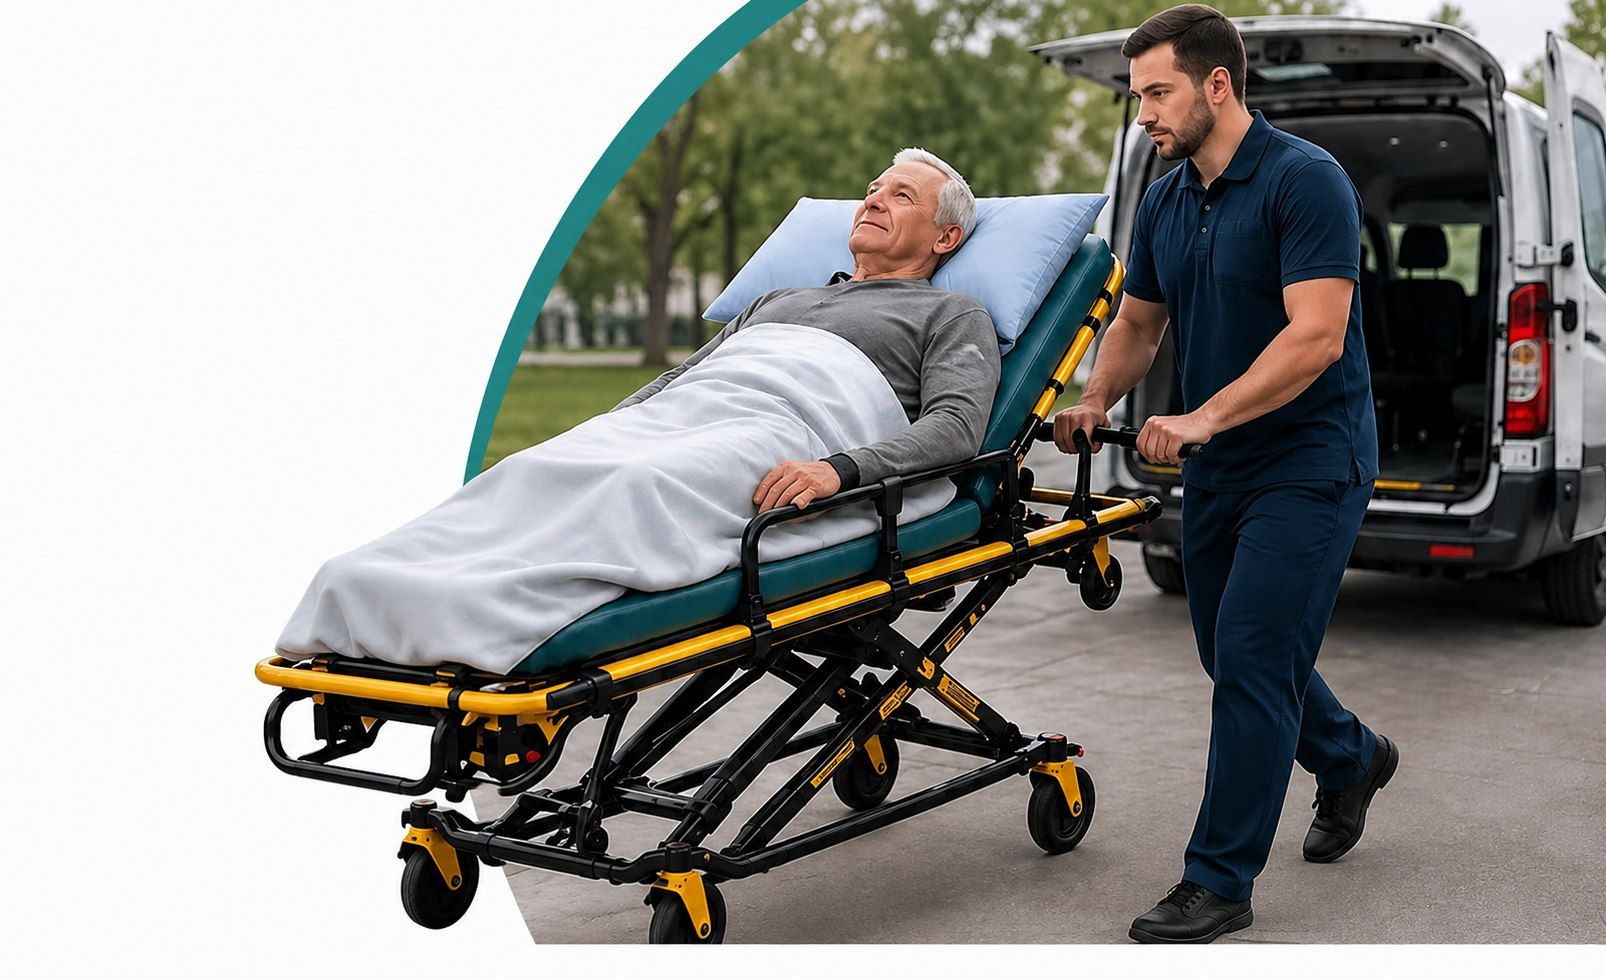
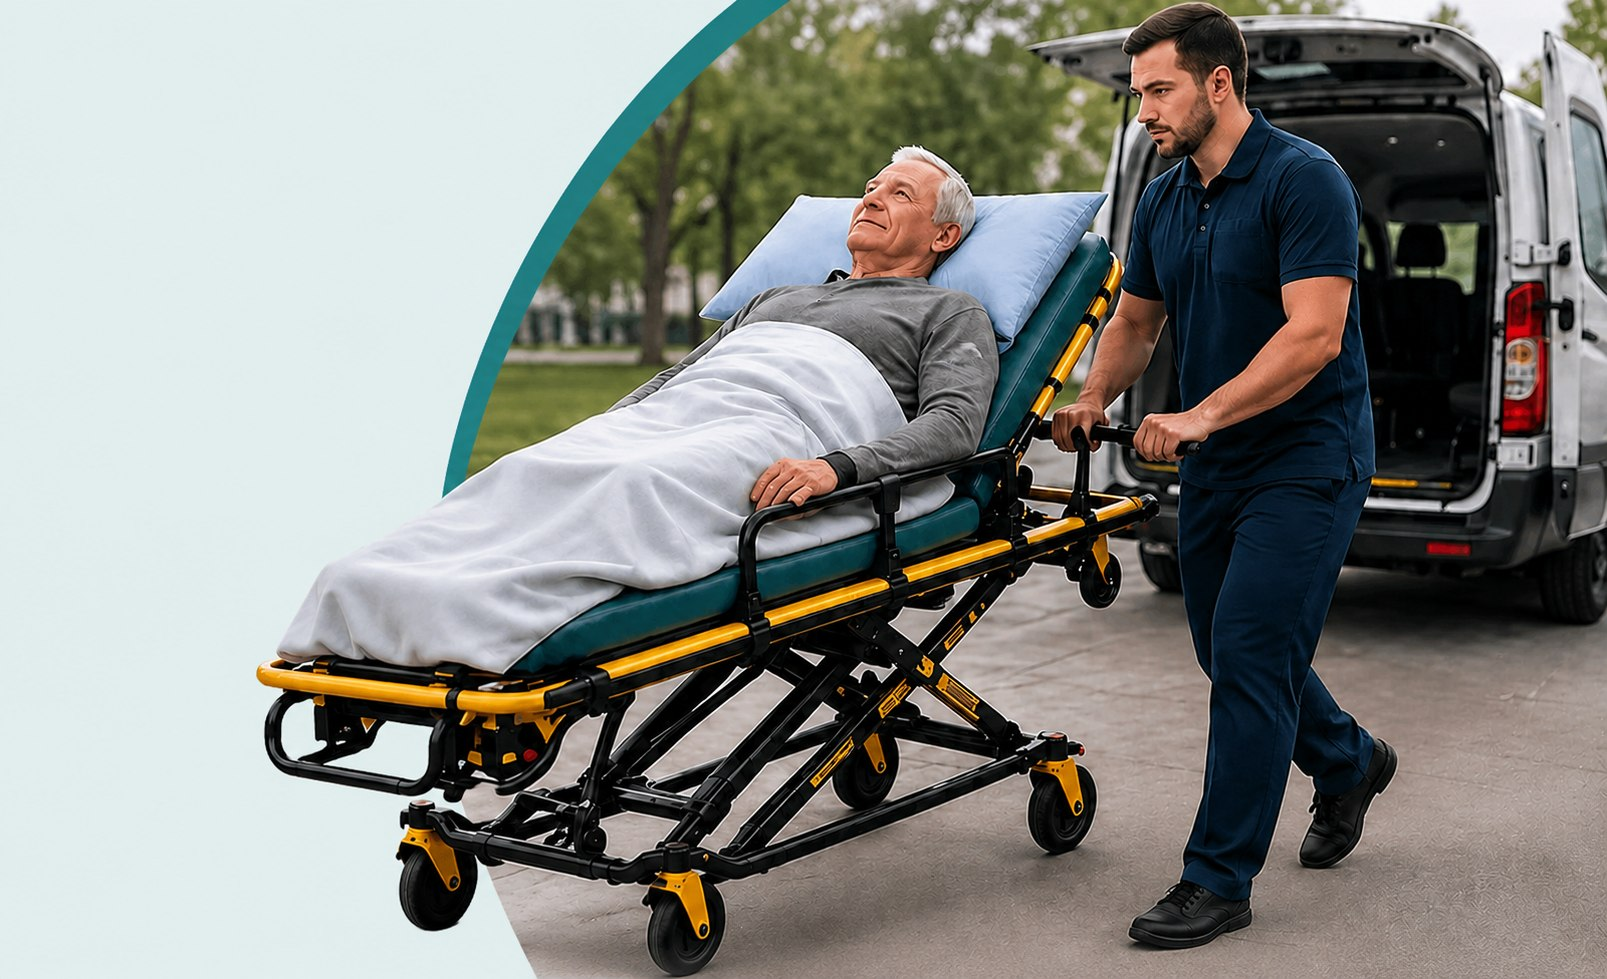
Bring back hero photo with a text-above-photo z-index layout
New photo, sized so top/bottom exactly match the hero section and the
right edge is flush with the site edge (verified via layout
measurement, not eyeballed). Text column is stacked above the photo
via z-index instead of avoiding overlap, so it stays readable no
matter how far the photo bleeds left - the hours card sits over the
photo the same way, giving the legs-under-the-card effect.

diff --git a/css/style.css b/css/style.css
@@ -184,6 +184,8 @@ ul { list-style: none; }
   align-items: stretch;
 }
 .hero-text {
+  position: relative;
+  z-index: 2;
   display: flex;
   flex-direction: column;
   justify-content: center;
@@ -254,6 +256,19 @@ ul { list-style: none; }
 .hours-text small { font-size: 9.5px; font-weight: 500; letter-spacing: 0.12em; color: var(--navy); }
 .hours-text small:first-of-type { color: var(--teal); }
 .hours-text strong { font-size: 24px; font-weight: 700; color: var(--teal); line-height: 1.1; }
+
+.hero-media {
+  position: relative;
+  z-index: 1;
+  height: 100%;
+  margin-left: -170px;
+  margin-right: -26px;
+}
+.hero-media img {
+  width: 100%; height: 100%;
+  object-fit: cover;
+  object-position: right top;
+}
 
 /* ===== Services ===== */
 .services { padding: 38px 26px 30px; background: #fff; }
@@ -411,6 +426,7 @@ ul { list-style: none; }
   .hero-text h1, .hero-subtitle, .hero-checklist li { white-space: normal; }
   .hero-text { padding: 24px 0; }
   .hero-hours-card { box-shadow: none; }
+  .hero-media { order: -1; height: 280px; margin-left: 0; margin-right: 0; }
 }
 
 @media (max-width: 760px) {

diff --git a/index.html b/index.html
@@ -81,6 +81,10 @@
         </div>
       </div>
     </div>
+
+    <div class="hero-media">
+      <img src="assets/hero-transport.jpg" alt="Санитар перевозит лежачего пациента к автомобилю" width="1607" height="979" loading="eager">
+    </div>
   </div>
 </section>
 
